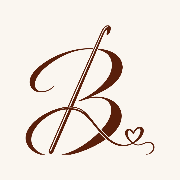
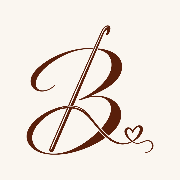
Monograma B completo no cabeçalho e nos ícones do navegador

diff --git a/index.html b/index.html
@@ -82,7 +82,7 @@
 <header class="site-header" id="topo">
   <div class="container header-inner">
     <a class="brand" href="#inicio" aria-label="Crochês da Bita · início">
-      <img src="assets/brand/monograma-marrom.png" alt="Crochês da Bita" width="696" height="700">
+      <img src="assets/brand/monograma-marrom.png" alt="Crochês da Bita" width="760" height="776">
     </a>
 
     <nav class="main-nav" id="menu" aria-label="Navegação principal">
@@ -367,7 +367,7 @@
     <button type="button" class="pdp-back" data-close-pdp>
       <svg class="icon" aria-hidden="true"><use href="#i-arrow-left"/></svg> <span>Voltar ao catálogo</span>
     </button>
-    <img class="pdp-bar-logo" src="assets/brand/monograma-marrom.png" alt="" width="696" height="700">
+    <img class="pdp-bar-logo" src="assets/brand/monograma-marrom.png" alt="" width="760" height="776">
     <button type="button" class="icon-btn" data-close-pdp aria-label="Fechar detalhes da bolsa">
       <svg class="icon"><use href="#i-close"/></svg>
     </button>
